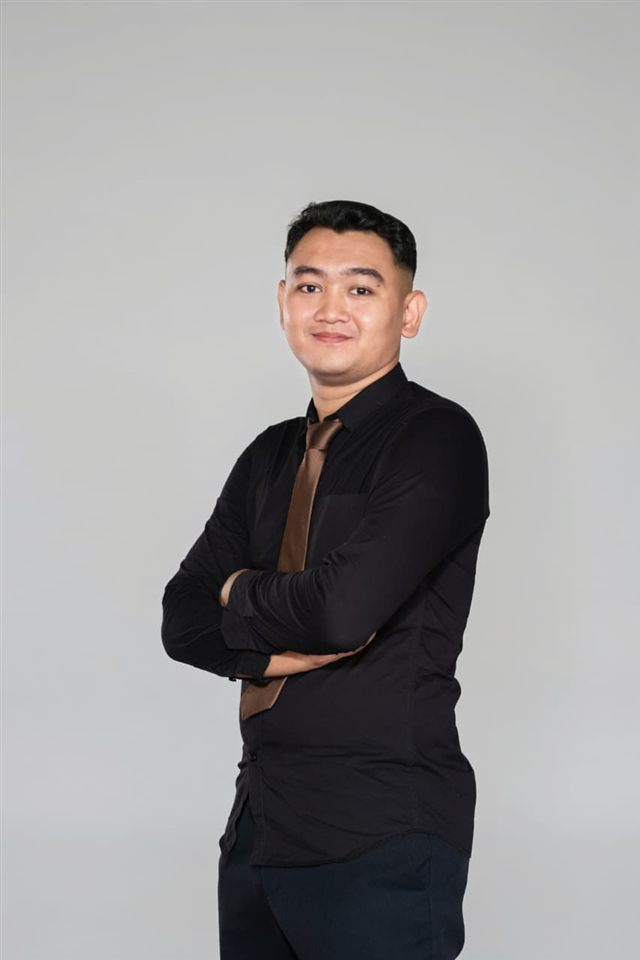
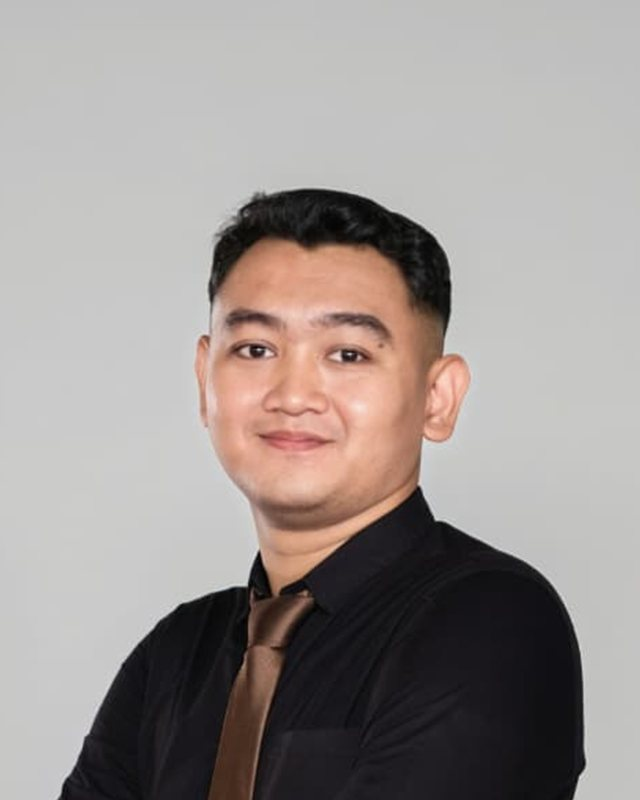
Crop portrait to a half-body shot

Changed region(s): [[0.0938, 0.1875, 0.9375, 1.0]]

diff --git a/index.html b/index.html
@@ -88,7 +88,7 @@
             </div>
 
             <div class="portrait">
-                <img src="assets/img/adam.jpg" alt="Portrait of Adam Syamsinendra" width="640" height="960">
+                <img src="assets/img/adam.jpg" alt="Portrait of Adam Syamsinendra" width="640" height="800">
             </div>
         </div>
     </section>

diff --git a/assets/css/style.css b/assets/css/style.css
@@ -368,7 +368,7 @@ p {
     height: auto;
     aspect-ratio: 4 / 5;
     object-fit: cover;
-    object-position: center 15%;
+    object-position: center;
     border-radius: 24px;
     border: 1px solid var(--border);
     box-shadow: var(--shadow);
